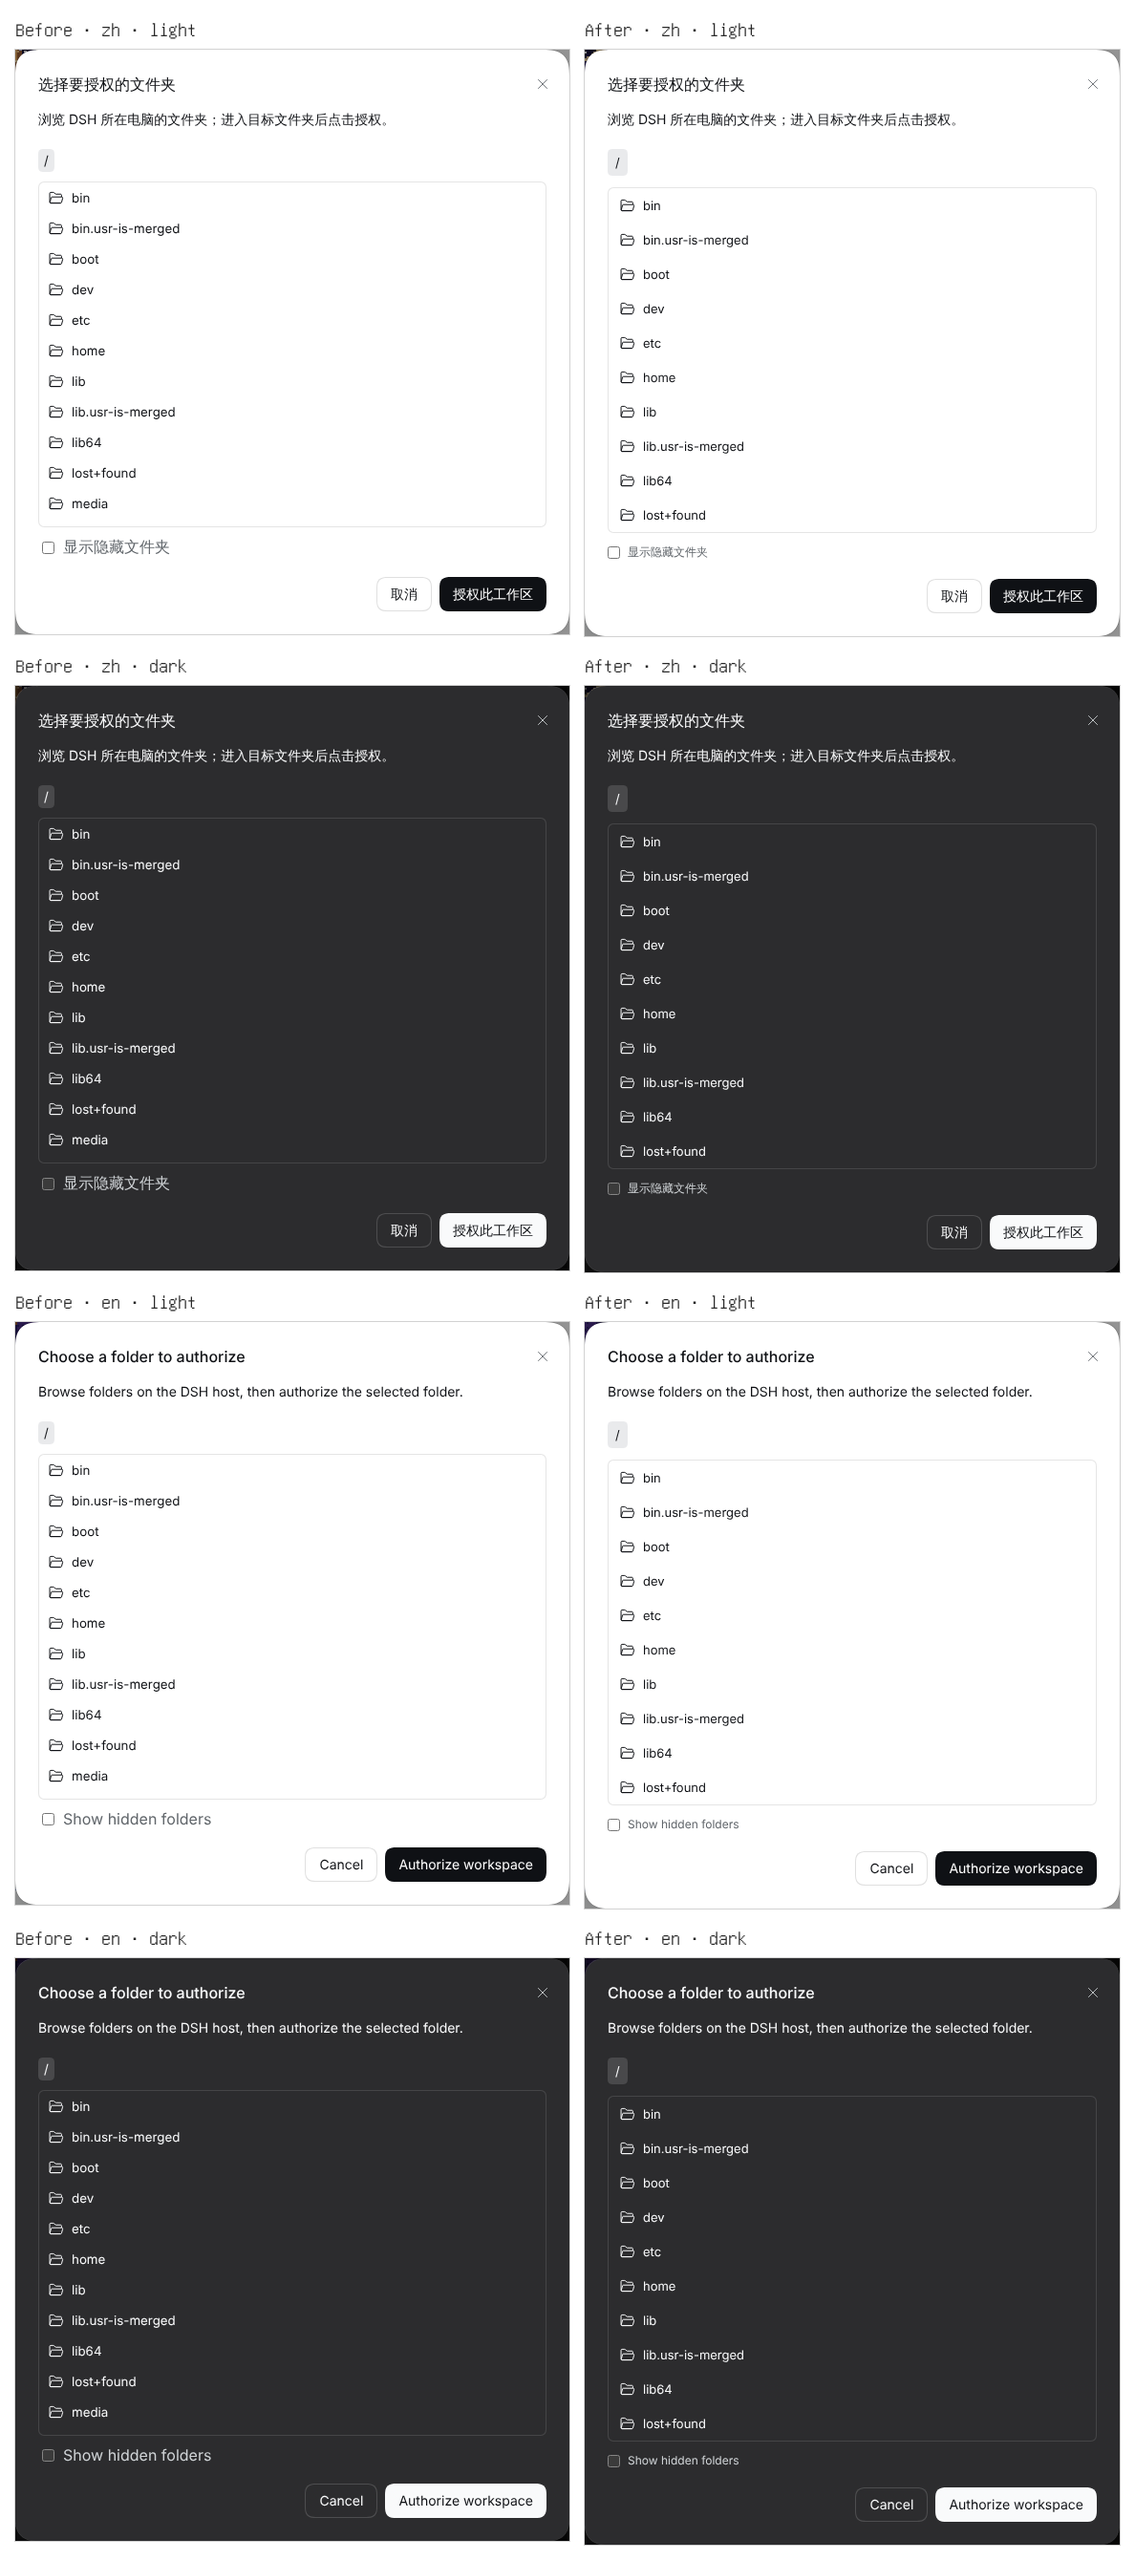
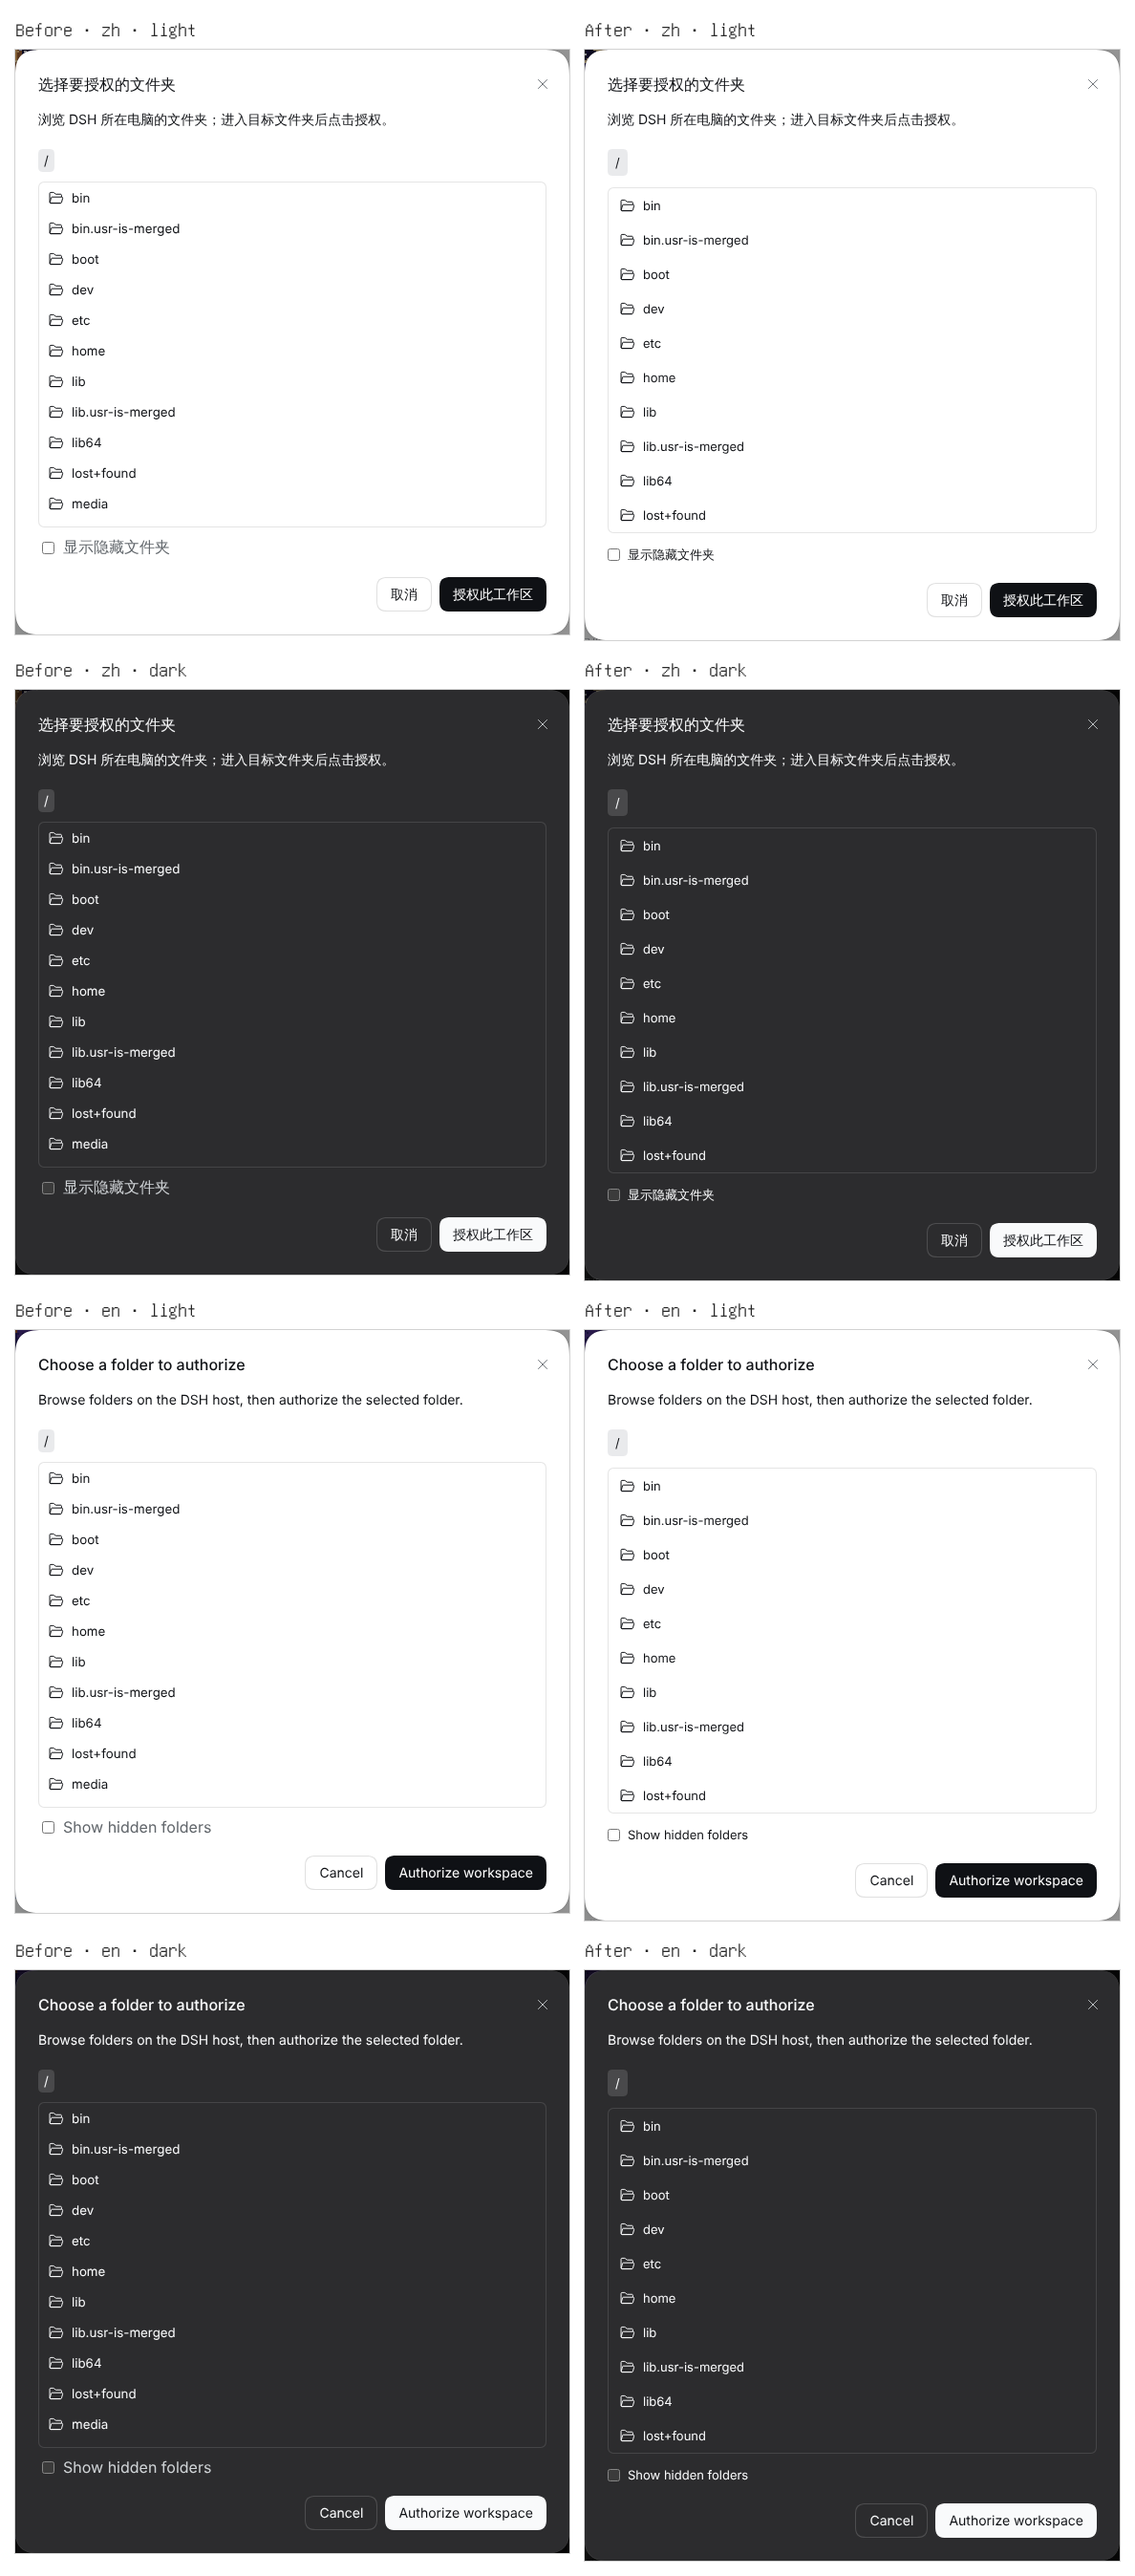
Restore heading weight, outline buttons and readable folder toggle
Issue: #1601
Agent-Task: claude-code/cloud/session_0152zfVCAc6MNB8R8xVq9b76
Claude-Session: https://claude.ai/code/session_0152zfVCAc6MNB8R8xVq9b76

diff --git a/packages/client/src/client/profile-backup.tsx b/packages/client/src/client/profile-backup.tsx
@@ -24,7 +24,7 @@ const styles = stylex.create({
     margin: 0,
     fontSize: text.titleSize,
     lineHeight: text.titleLine,
-    fontWeight: text.strong,
+    fontWeight: text.heavy,
   },
   text: { margin: 0, overflowWrap: 'anywhere' },
   actions: {
@@ -232,7 +232,7 @@ export function ProfileBackupSettings({ t }: ProfileBackupSettingsProps): ReactE
             <p {...stylex.props(styles.text)}>{t('backup.sessions')}</p>
             <p {...stylex.props(styles.text)}>{t('backup.purge')}</p>
             <div {...stylex.props(styles.actions)}>
-              <Button disabled={busy} onClick={() => void prepare()}>
+              <Button variant="outline" size="sm" disabled={busy} onClick={() => void prepare()}>
                 {t('backup.prepare')}
               </Button>
             </div>
@@ -246,7 +246,7 @@ export function ProfileBackupSettings({ t }: ProfileBackupSettingsProps): ReactE
                     sessions: String(preview.sessions.count),
                   })}
                 </p>
-                <Button disabled={busy} onClick={() => void download()}>
+                <Button variant="outline" size="sm" disabled={busy} onClick={() => void download()}>
                   {t('backup.download')}
                 </Button>
               </div>
@@ -272,7 +272,12 @@ export function ProfileBackupSettings({ t }: ProfileBackupSettingsProps): ReactE
                 event.currentTarget.value = '';
               }}
             />
-            <Button disabled={busy} onClick={() => file.current?.click()}>
+            <Button
+              variant="outline"
+              size="sm"
+              disabled={busy}
+              onClick={() => file.current?.click()}
+            >
               {t('backup.select')}
             </Button>
             {inspection ? (
@@ -313,7 +318,12 @@ export function ProfileBackupSettings({ t }: ProfileBackupSettingsProps): ReactE
                 label={t('backup.acknowledge')}
               />
               <div {...stylex.props(styles.actions)}>
-                <Button disabled={busy} onClick={() => void run(refresh)}>
+                <Button
+                  variant="outline"
+                  size="sm"
+                  disabled={busy}
+                  onClick={() => void run(refresh)}
+                >
                   {t('backup.refresh')}
                 </Button>
               </div>
@@ -342,12 +352,16 @@ export function ProfileBackupSettings({ t }: ProfileBackupSettingsProps): ReactE
                   </p>
                   <div {...stylex.props(styles.actions)}>
                     <Button
+                      variant="outline"
+                      size="sm"
                       disabled={busy || !bot.route}
                       onClick={() => void act(bot.slug, 'authorize')}
                     >
                       {t('backup.authorize')}
                     </Button>
                     <Button
+                      variant="outline"
+                      size="sm"
                       disabled={busy || !!bot.reason || !acknowledged || bot.activated}
                       onClick={() => void act(bot.slug, 'activate')}
                     >
@@ -362,6 +376,8 @@ export function ProfileBackupSettings({ t }: ProfileBackupSettingsProps): ReactE
             <div role="status" {...stylex.props(styles.actions)}>
               <span>{t('backup.working')}</span>
               <Button
+                variant="outline"
+                size="sm"
                 onClick={() => {
                   active.current?.abort();
                   setBusy(false);

diff --git a/packages/client/src/client/workspace-grants-entry.tsx b/packages/client/src/client/workspace-grants-entry.tsx
@@ -270,9 +270,9 @@ const browserStyles = stylex.create({
     display: 'flex',
     alignItems: 'center',
     gap: space.x3,
-    color: color.muted,
-    fontSize: text.metaSize,
-    lineHeight: text.metaLine,
+    color: color.fg,
+    fontSize: text.bodySize,
+    lineHeight: text.bodyLine,
     cursor: 'pointer',
   },
   checkbox: { margin: 0, accentColor: color.accent },

diff --git a/packages/client/src/client/ds/tokens.stylex.ts b/packages/client/src/client/ds/tokens.stylex.ts
@@ -19,6 +19,7 @@ export const text = stylex.defineConsts({
   headingSize: '16px',
   headingLine: '24px',
   strong: '500',
+  heavy: '600',
 });
 
 export const radius = stylex.defineConsts({
